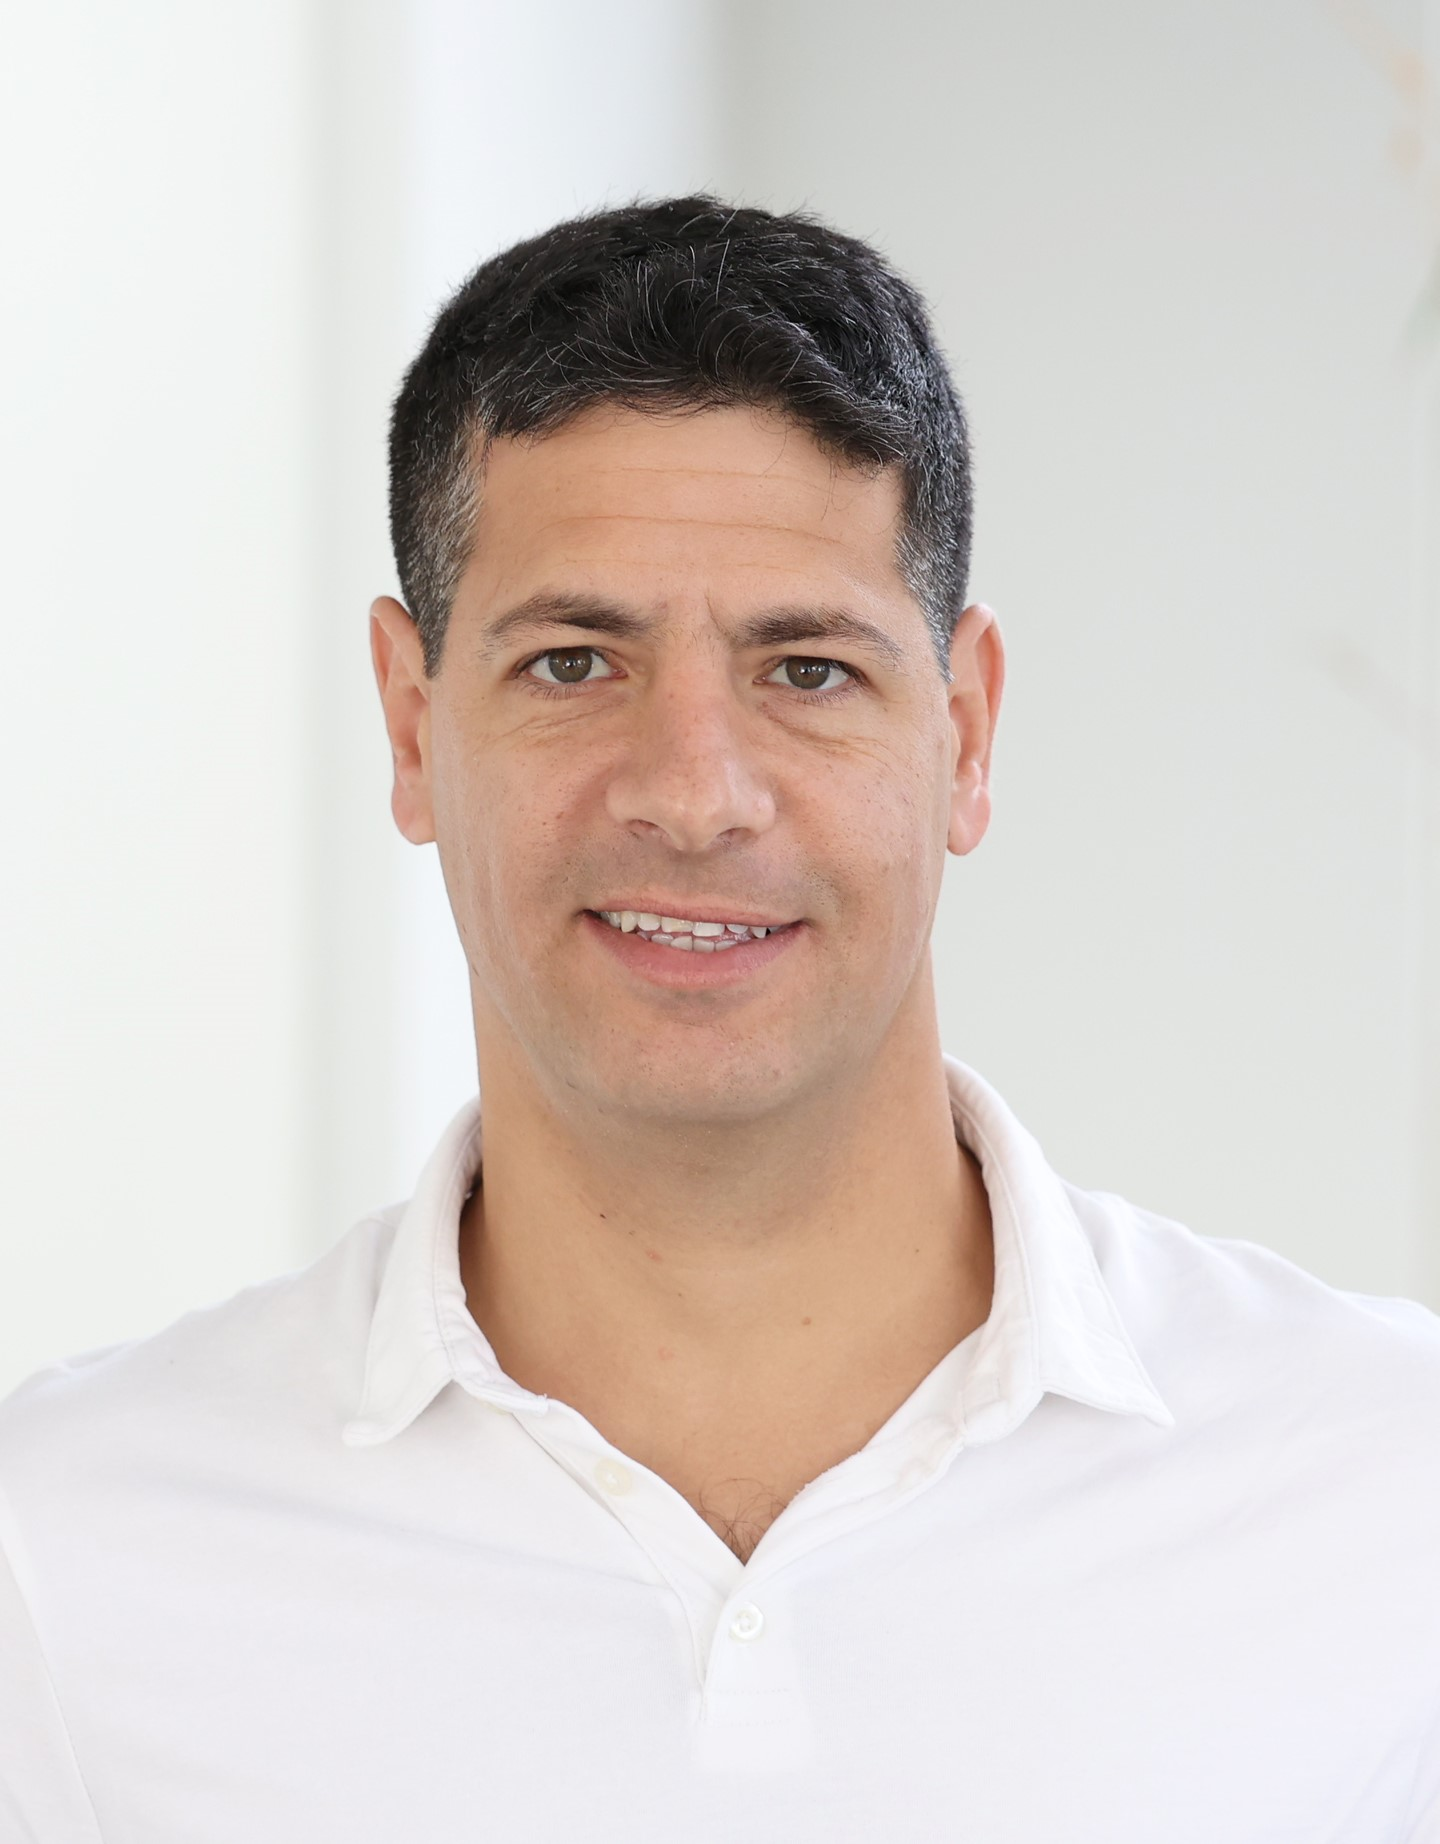
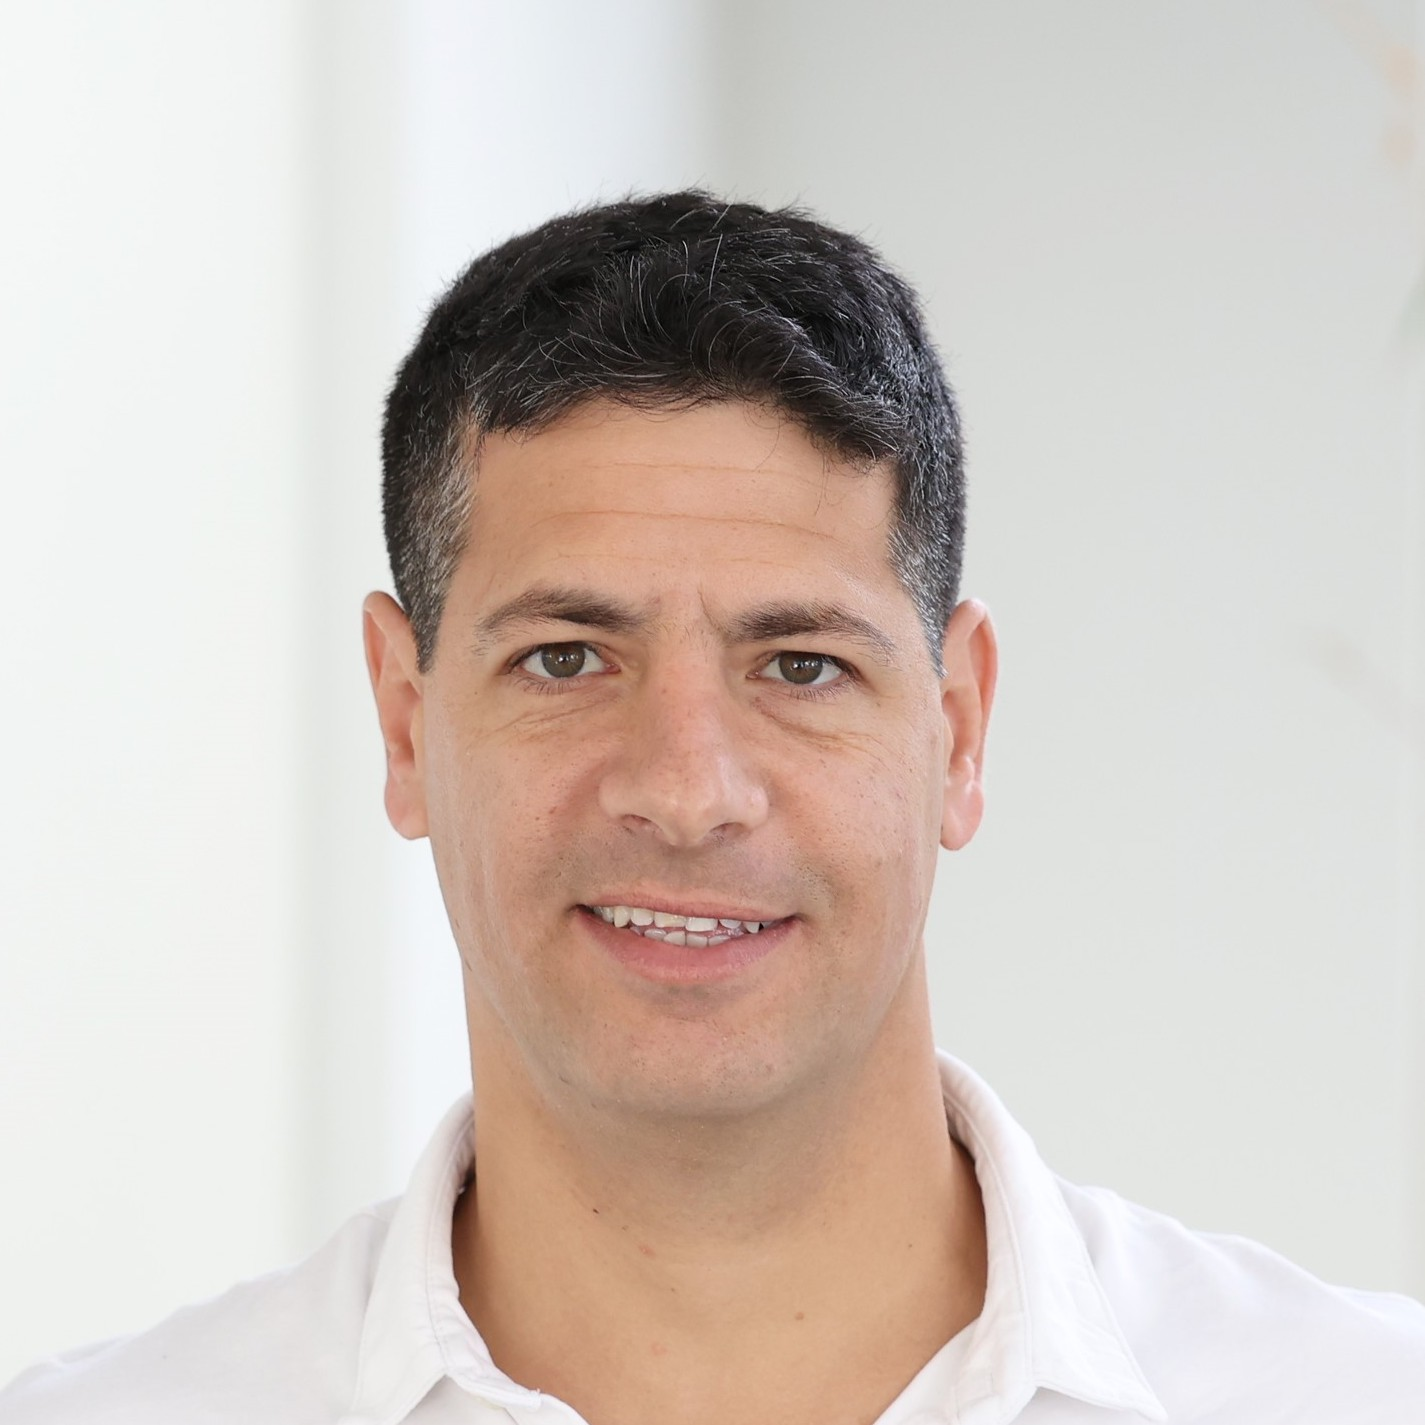
upload tweaks

diff --git a/tmd_conference/abstract_submission.md b/tmd_conference/abstract_submission.md
@@ -1,9 +1,15 @@
 ---
 layout: page
 title: Abstract Submission
-permalink: /submission/
+permalink: /abstract_submission/
 ---
 
+Abstract submissions to be opened in due course.
+
+
+
+<!--
 ## Please submit abstracts via the form below
 
 <iframe width="640px" height="480px" src="https://forms.office.com/Pages/ResponsePage.aspx?id=RQSlSfq9eUut41R7TzmG6Xp4S3wIwIhPh8-JoiUC_apUMFhSOUIzTVIxWEtXMEsxU1pHREZOMUIzSy4u&embed=true" frameborder="0" marginwidth="0" marginheight="0" style="border: none; max-width:100%; max-height:100vh" allowfullscreen webkitallowfullscreen mozallowfullscreen msallowfullscreen> </iframe>
+-->
